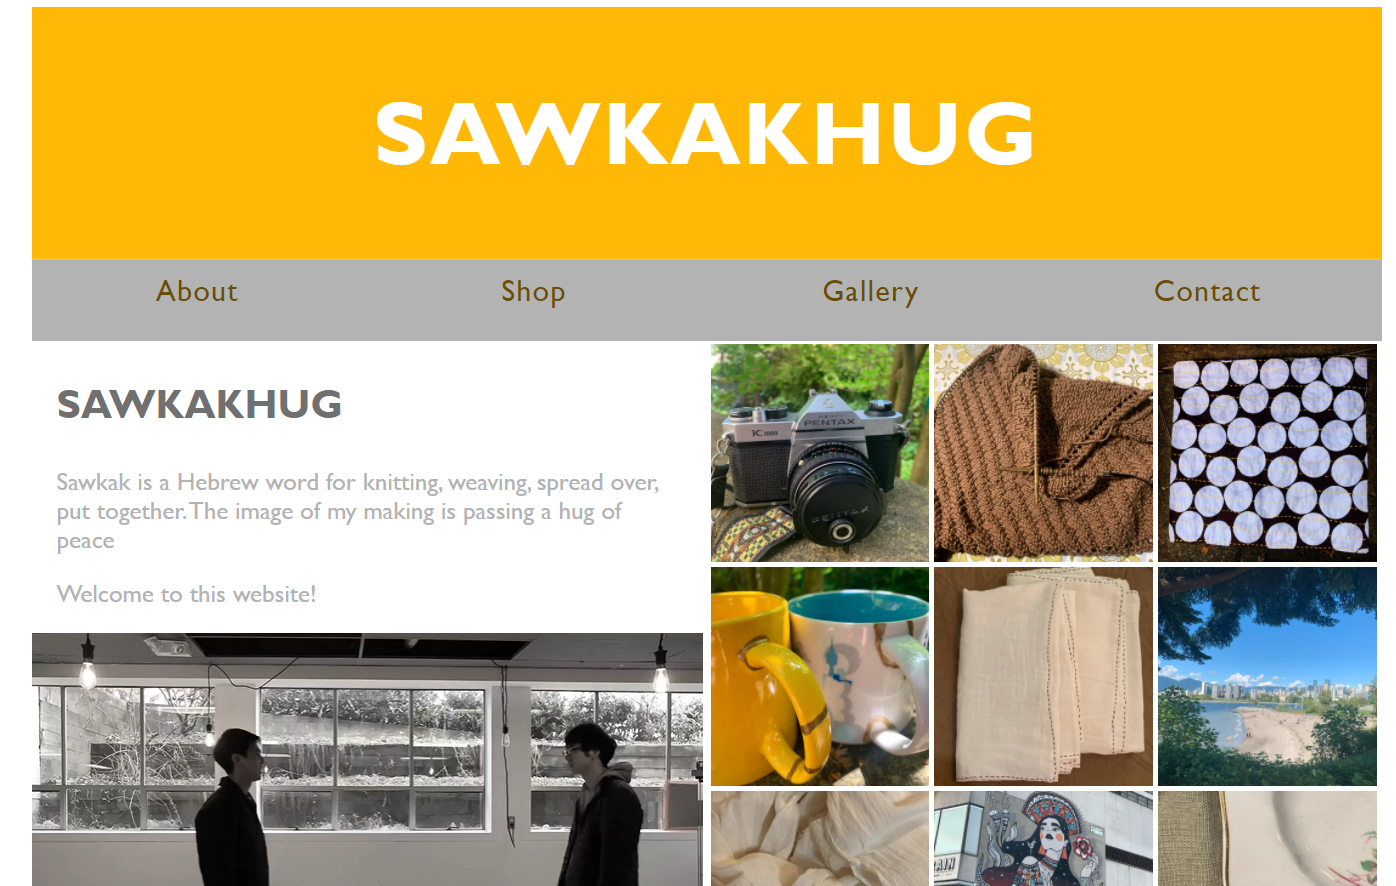
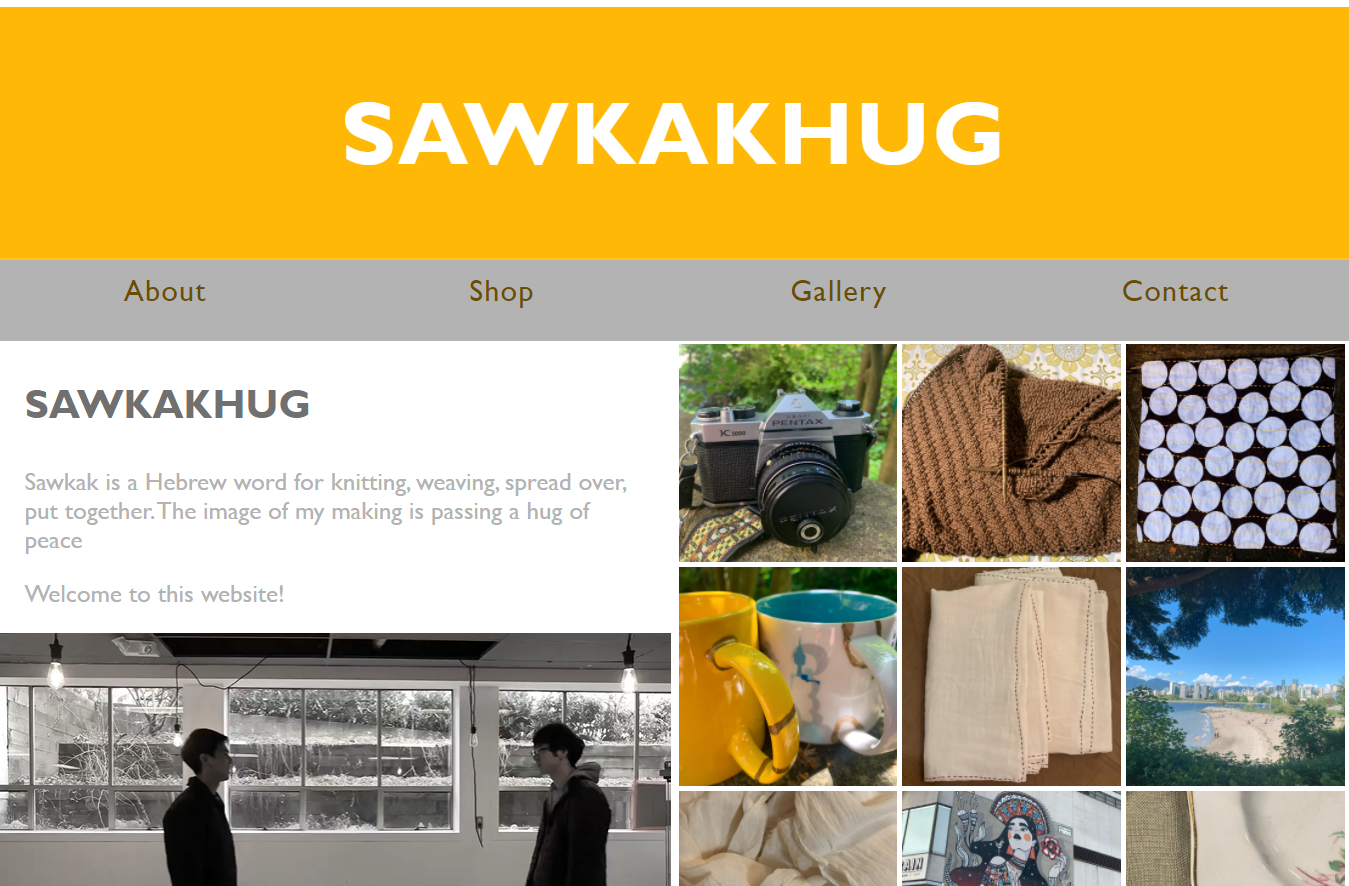
Few clean up items and merging the pages

diff --git a/src/components/Page/Page.tsx b/src/components/Page/Page.tsx
@@ -9,9 +9,11 @@ import PortfolioSection from '../Portfolio/Portfolio';
 import SkillsSection from '../Skills/Skills';
 
 
-interface ProgrammerProps {}
+interface PageProps {
+  occupation : string
+}
 
-const Programmer: FC<ProgrammerProps> = () => {
+const Page: FC<PageProps> = ({ occupation }) => {
   const [bio, setBio] = useState<Bio>();
   const [timelineData, setTimelineData] = useState<Timeline[]>([]);
   const [portfolioData, setPortfolioData] = useState<Project[]>([]);
@@ -22,10 +24,10 @@ const Programmer: FC<ProgrammerProps> = () => {
     const loadData = async () => {
       try {
         const [bioData, timeline, projects, skills] = await Promise.all([
-          fetchBio('programmer'),
-          fetchTimeline('programmer'),
-          fetchProjects('programmer'),
-          fetchSkills('programmer'),
+          fetchBio(occupation),
+          fetchTimeline(occupation),
+          fetchProjects(occupation),
+          fetchSkills(occupation),
         ]);
 
         setBio(bioData);
@@ -43,18 +45,18 @@ const Programmer: FC<ProgrammerProps> = () => {
   }, []);
 
   if (loading) {
-    return <div data-testid="Programmer">Loading...</div>;
+    return <div data-testid={occupation}>Loading...</div>;
   }
 
   return (
-    <div data-testid="Programmer">
+    <div data-testid={occupation}>
       <Menu />
-      <BioSection data={bio} className='programmer' />
-      <SkillsSection data={skillsData} className="programmer" />
-      <TimelineSection data={timelineData} className="programmer" />
-      <PortfolioSection data={portfolioData} className="programmer" />
+      <BioSection data={bio} className={occupation} />
+      <SkillsSection data={skillsData} className={occupation} />
+      <TimelineSection data={timelineData} className={occupation}/>
+      <PortfolioSection data={portfolioData} className={occupation} />
     </div>
   );
 };
 
-export default Programmer;
+export default Page;

diff --git a/src/components/SkillsEntry/SkillsEntry.module.css b/src/components/SkillsEntry/SkillsEntry.module.css
@@ -1,25 +1,40 @@
 .SkillsEntry {
-
     display: flex;
     position: relative;
     flex-direction: column;
     align-items: center;
     justify-content: center;
-    gap: 10px;
-    padding: 10px;
-    border: 2px solid var(--darker-bg);
-    border-radius: 50px;
     width: 100px;
     height: 100px;
     z-index: 50;
+    opacity: 100%;
+    margin: 10px;
 
     h3{
+        display: none;
+        position: absolute;
+        text-align: center;
+        width: 75px;
+        top: calc(50% - 10px);
+        left: calc(50% - 10px);
+        transform: translate(-50%, -50%);
+        margin: inherit;
         color: #000;
-        font-size: 12px;
-        margin: 0;
+        background-color: #FFFFFF80;
+        font-size: 16px;
     }
 
     img{
         margin: 5px;
+        height: 100%;
+        opacity: 100%;
     }
+}
+
+.SkillsEntry:hover h3 {
+    display: block;
+}
+
+.SkillsEntry:hover img {
+    opacity: 30%;
 }

diff --git a/src/components/PortfolioEntry/PortfolioEntry.module.css b/src/components/PortfolioEntry/PortfolioEntry.module.css
@@ -1,14 +1,19 @@
 .PortfolioEntry {
-  width: 300px;
-  height: auto;
-  text-align: center;
-  margin-top: 35px;
-  box-shadow: 0 0 10px 0 var(--module-bg);
-  background-color: #f8f8f8;
-  border-radius: 3px;
-  border-bottom: 4px solid var(--module-bg);
-  display: inline-block;
-  padding: 20px 10px;
+
+    width: var(--portfolio-width);
+    height: auto;
+    text-align: center;
+    margin: 0 10px;
+    box-shadow: 0 0 10px 0 var(--module-bg);
+    background-color: #f8f8f8;
+    border-radius: 3px;
+    border-bottom: 4px solid var(--module-bg);
+    display: inline-block;
+    padding: 20px 0;
+ 
+  a{
+    margin: 10px 0;
+  }
 
   h4 {
     margin: 5px 0;
@@ -21,6 +26,16 @@
     text-align: left;
     padding-left: 20px;
   }
+
+  img{
+    width: 100%;
+    transition: all 0.3s ease-out;
+  }
+  
+  img:hover {
+    transform: scale(1.1);
+  }
+
   .text_column {
     width: 260px;
   }

diff --git a/src/App.tsx b/src/App.tsx
@@ -1,7 +1,6 @@
 import { BrowserRouter, Link, Route, Routes } from 'react-router-dom';
 import Homepage from './components/Homepage/Homepage';
-import Programmer from './components/Programmer/Programmer';
-import Musician from './components/Musician/Musician';
+import Page from './components/Page/Page';
 import Footer from './components/Footer/Footer';
 import './App.css';
 
@@ -10,8 +9,8 @@ function App() {
     <BrowserRouter>
       <Routes>
         <Route path="/" element={<Homepage />} />
-        <Route path="/programmer" element={<Programmer />} />
-        <Route path="/musician" element={<Musician />} />
+        <Route path="/programmer" element={<Page occupation='programmer'/>} />
+        <Route path="/musician" element={<Page occupation='musician'/>} />
       </Routes>
       <Footer />
     </BrowserRouter>

diff --git a/src/components/Page/Page.test.tsx b/src/components/Page/Page.test.tsx
@@ -1,13 +1,13 @@
 import React from 'react';
 import { render, screen } from '@testing-library/react';
 import '@testing-library/jest-dom';
-import Programmer from './Programmer';
+import Page from './Page';
 
 describe('<Programmer />', () => {
   test('it should mount', () => {
-    render(<Programmer />);
+    render(<Page occupation='programmer'/>);
 
-    const programmer = screen.getByTestId('Programmer');
+    const programmer = screen.getByTestId('programmer');
 
     expect(programmer).toBeInTheDocument();
   });

diff --git a/src/components/PortfolioEntry/PortfolioEntry.tsx b/src/components/PortfolioEntry/PortfolioEntry.tsx
@@ -8,7 +8,7 @@ interface PortfolioEntryProps {
 
 const PortfolioEntry: FC<PortfolioEntryProps> = ({ project }) => (
   <div className={styles.PortfolioEntry} data-testid="PortfolioEntry">
-    <a href={project.url}><img src={project.imageUrl} alt="" height="200px" className="cards" /></a>
+    <a href={project.url}><img src={project.imageUrl} alt="" className="cards" /></a>
     <h4>{project.title}</h4>
     <p className="text_column">{project.description}</p>
   </div>

diff --git a/src/components/SkillsEntry/SkillsEntry.tsx b/src/components/SkillsEntry/SkillsEntry.tsx
@@ -8,9 +8,8 @@ interface SkillsEntryProps {
 
 const SkillsEntry: FC<SkillsEntryProps> = ({ skill }) => (
   <div className={styles.SkillsEntry} data-testid="SkillsEntry">
-    <h3>{skill.skill}</h3>
-    {skill.imageUrl && <img src={skill.imageUrl} alt={skill.skill} />}
-    <h3>{skill.experience}</h3>
+    <h3 className={styles.skillText}>{skill.skill}<br/>{skill.experience}</h3>
+    <img src={skill.imageUrl} alt={skill.skill} />
   </div>
 );
 

diff --git a/backend/routes/timeline.js b/backend/routes/timeline.js
@@ -46,8 +46,10 @@ router.get('/:type', async (req, res) => {
       'SELECT * FROM timeline_entries WHERE type = $1 ORDER BY year ASC',
       [type]
     );
-    res.json(result.rows);
-  } catch (err) {
+    const transformedRows = result.rows.map(transformTimelineRow);
+    res.json(transformedRows);
+    } catch (err) {
+    console.log(err.message)
     res.status(500).json({ error: err.message });
   }
 });

diff --git a/src/components/Portfolio/Portfolio.tsx b/src/components/Portfolio/Portfolio.tsx
@@ -11,9 +11,11 @@ interface PortfolioProps {
 const PortfolioSection: FC<PortfolioProps> = ({ data, className }) => (
   <div className={`${styles.Portfolio} ${className}`} id="portfolio">
     <h2>Projects I am proud of</h2>
+    <div className={styles.container}>
     {data.map((entry) => (
       <PortfolioEntry key={entry.id} project={entry} />
     ))}
+     </div>
   </div>
 );
 

diff --git a/backend/routes/projects.js b/backend/routes/projects.js
@@ -44,8 +44,9 @@ router.get('/:type', async (req, res) => {
       'SELECT * FROM projects WHERE type = $1 ORDER BY title ASC',
       [type]
     );
-    res.json(result.rows);
-  } catch (err) {
+    const transformedRows = result.rows.map(transformProjectRow);
+    res.json(transformedRows);
+    } catch (err) {
     res.status(500).json({ error: err.message });
   }
 });

diff --git a/src/components/Skills/Skills.tsx b/src/components/Skills/Skills.tsx
@@ -11,9 +11,11 @@ type SkillsProps = {
 const SkillsSection: FC<SkillsProps> = ({ data , className }) => (
   <div className={`${styles.Skills} ${className ?? ''}`} id="skills">
     <div className={styles.title}><h2>Skills</h2></div>
+    <div className={styles.container}>
     {data.map((entry) => (
       <SkillsEntry skill={entry} />
     ))}
+    </div>
   </div>
 );
 

diff --git a/backend/routes/skills.js b/backend/routes/skills.js
@@ -43,8 +43,9 @@ router.get('/:type', async (req, res) => {
       return res.status(404).json({ error: 'Skills not found' });
     }
     
-    res.json(result.rows);
-  } catch (err) {
+    const transformedRows = result.rows.map(transformSkillsRow);
+    res.json(transformedRows);
+    } catch (err) {
     res.status(500).json({ error: err.message });
   }
 });
